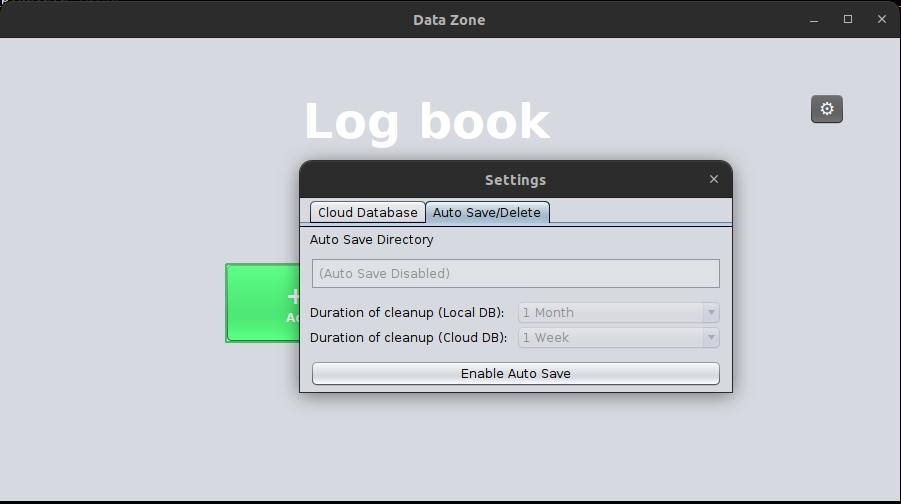
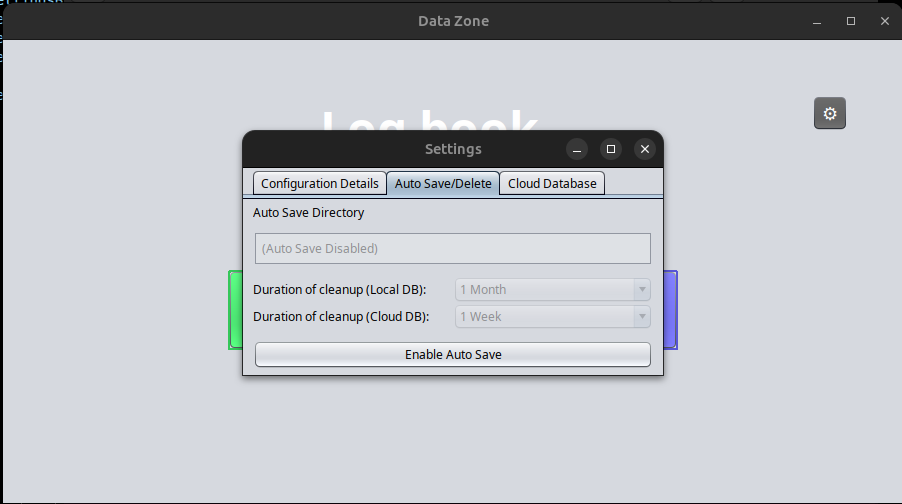
docs: docs: add Configuration UI screenshot

Changed region(s): [[0.2486, 0.2083, 0.8391, 0.8036], [0.0, 0.0, 1.0, 1.0], [0.9012, 0.1786, 0.9323, 0.2679]]

diff --git a/README.md b/README.md
@@ -164,7 +164,7 @@ Login Time,USN,Name,Sem,Dept,Subject,Batch, ... , Logout Time,Session ID
 ### 5⃣ **Manage Configuration Tables**
 This section allows you to customize the organizational structure of the logbook without touching the code:
 
-* **Dynamic Categories**: Navigate to `Settings` → **Configuration Details** tab. Use the **"+ Add / Remove Categories"** button to create new structural keys like "Lab Assistant," "Room No," or "System ID."
+* **Dynamic Categories**: Navigate to `⚙ Settings` → **"Configuration Details"** tab. Use the **"+ Add / Remove Categories"** button to create new structural keys like "Lab Assistant," "Room No," or "System ID."
 * **Reference Items**: Within each category, use the **"Manage [Category]"** dialog to search, add, or delete specific selectable values (e.g., adding a new Subject Code like `BXLX101`).
 * **Instant Sync**: Saving these changes triggers a real-time UI refresh, ensuring all dropdowns and filters throughout the app are updated immediately.
 
@@ -228,6 +228,9 @@ testing.skip.delete=false
 
 ### Settings Dialog
 <div align="center">
+<img src="images/screenshot-settings-configurations.png" alt="Settings - Configuration" width="600"/>
+<p><i>Dynamic Schema & Category Management Interface</i></p>
+
 <img src="images/screenshot-settings-AD_disable.png" alt="Settings - Disabled" width="600"/>
 <p><i>Auto Save/Delete disabled state</i></p>
 
@@ -264,7 +267,7 @@ DigiLogBook/
 ### Database Schema (Universal)
 The system now uses a dynamic schema that adapts its data types to the connected database:
 
-**Table: CONFIGURATION_TABLE**
+**Table: configurationOptions**
 | Column | Type | Description |
 |--------|------|-------------|
 | id | Primary Key | Auto-incremented (Dialect specific) |
